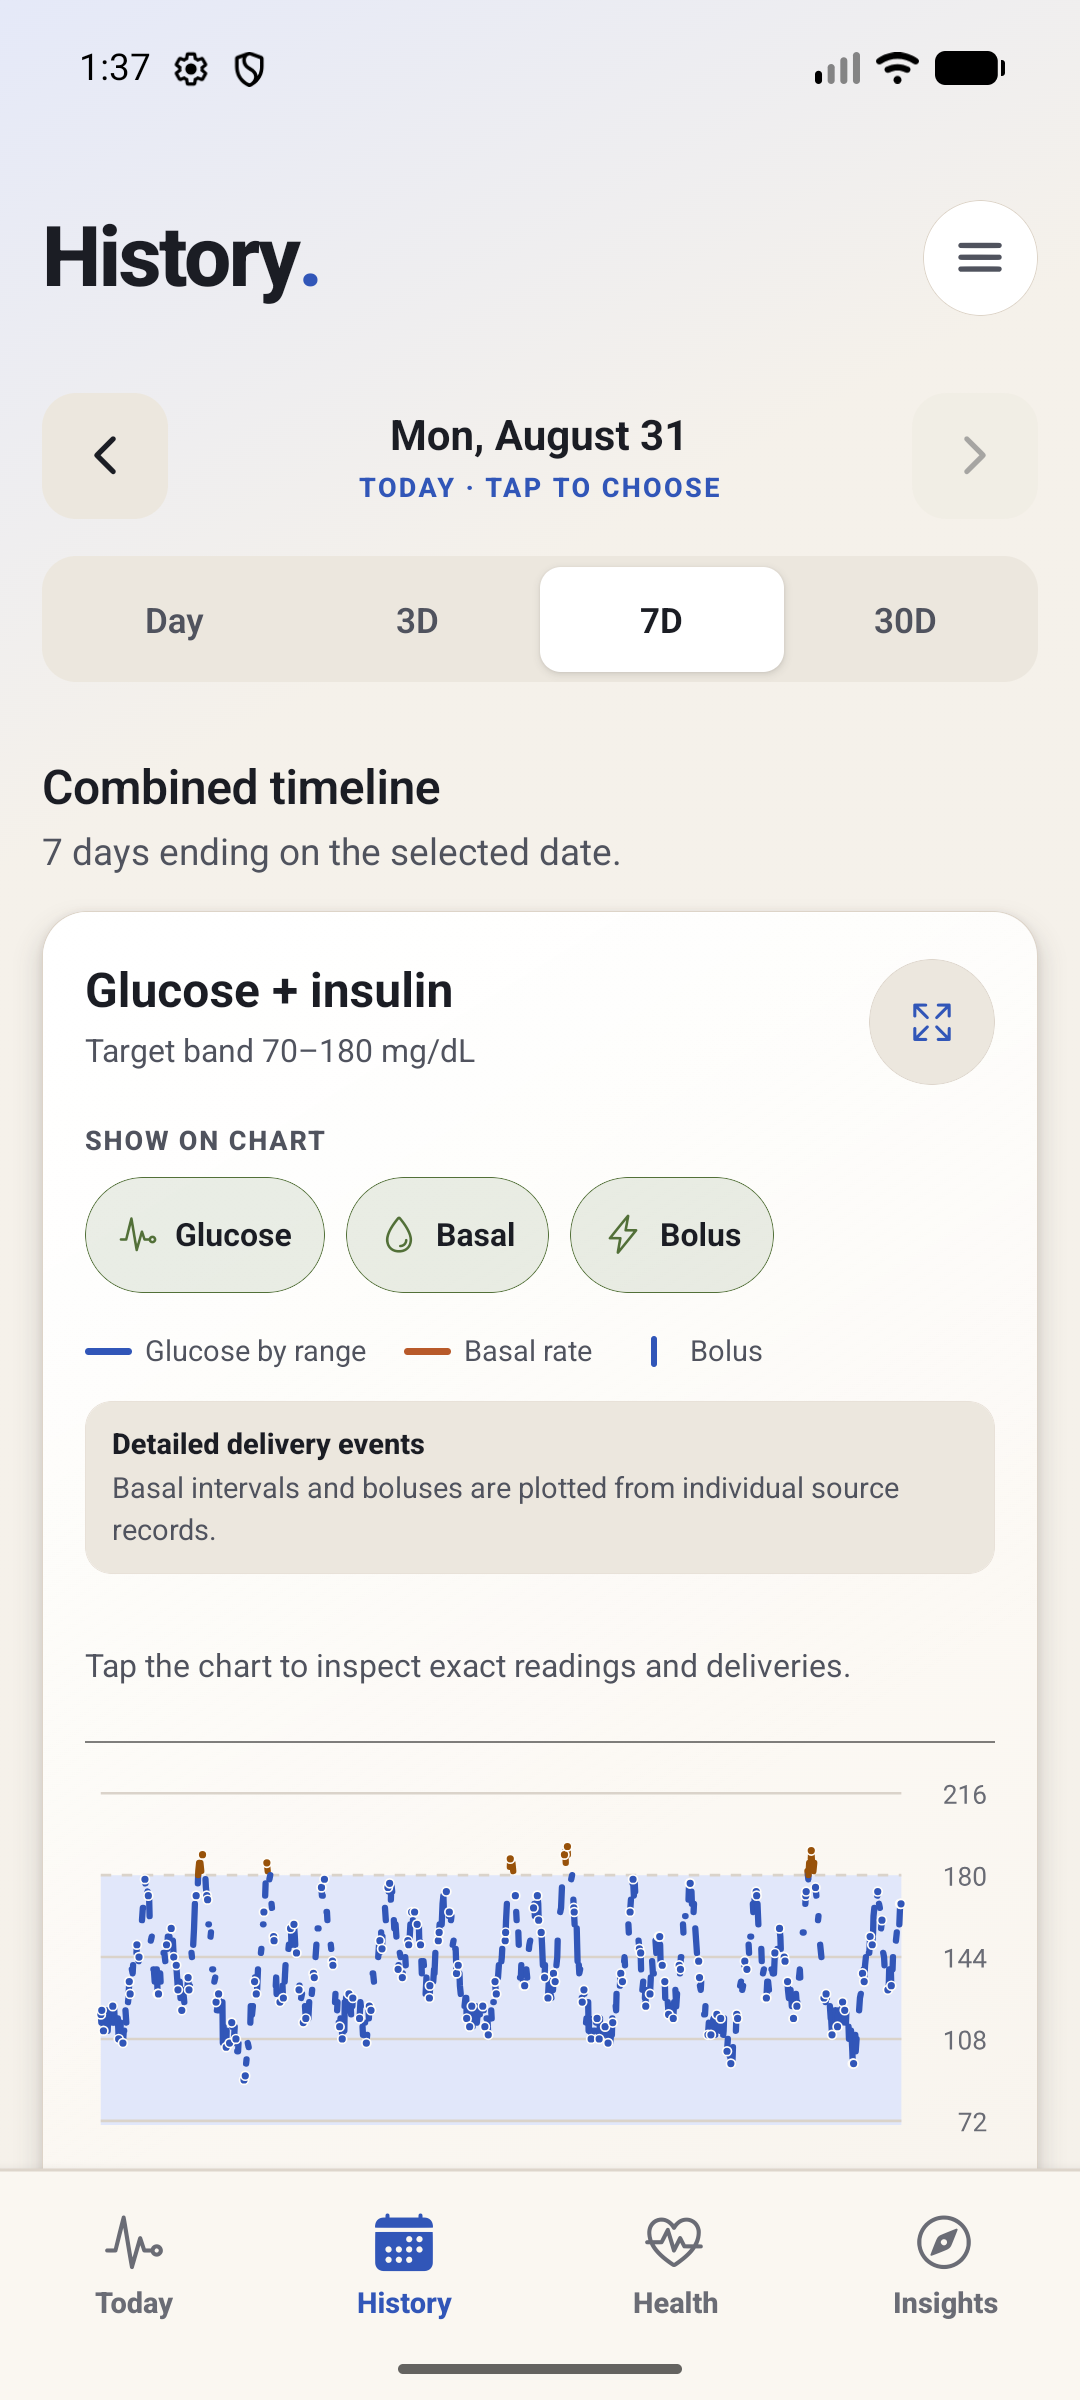
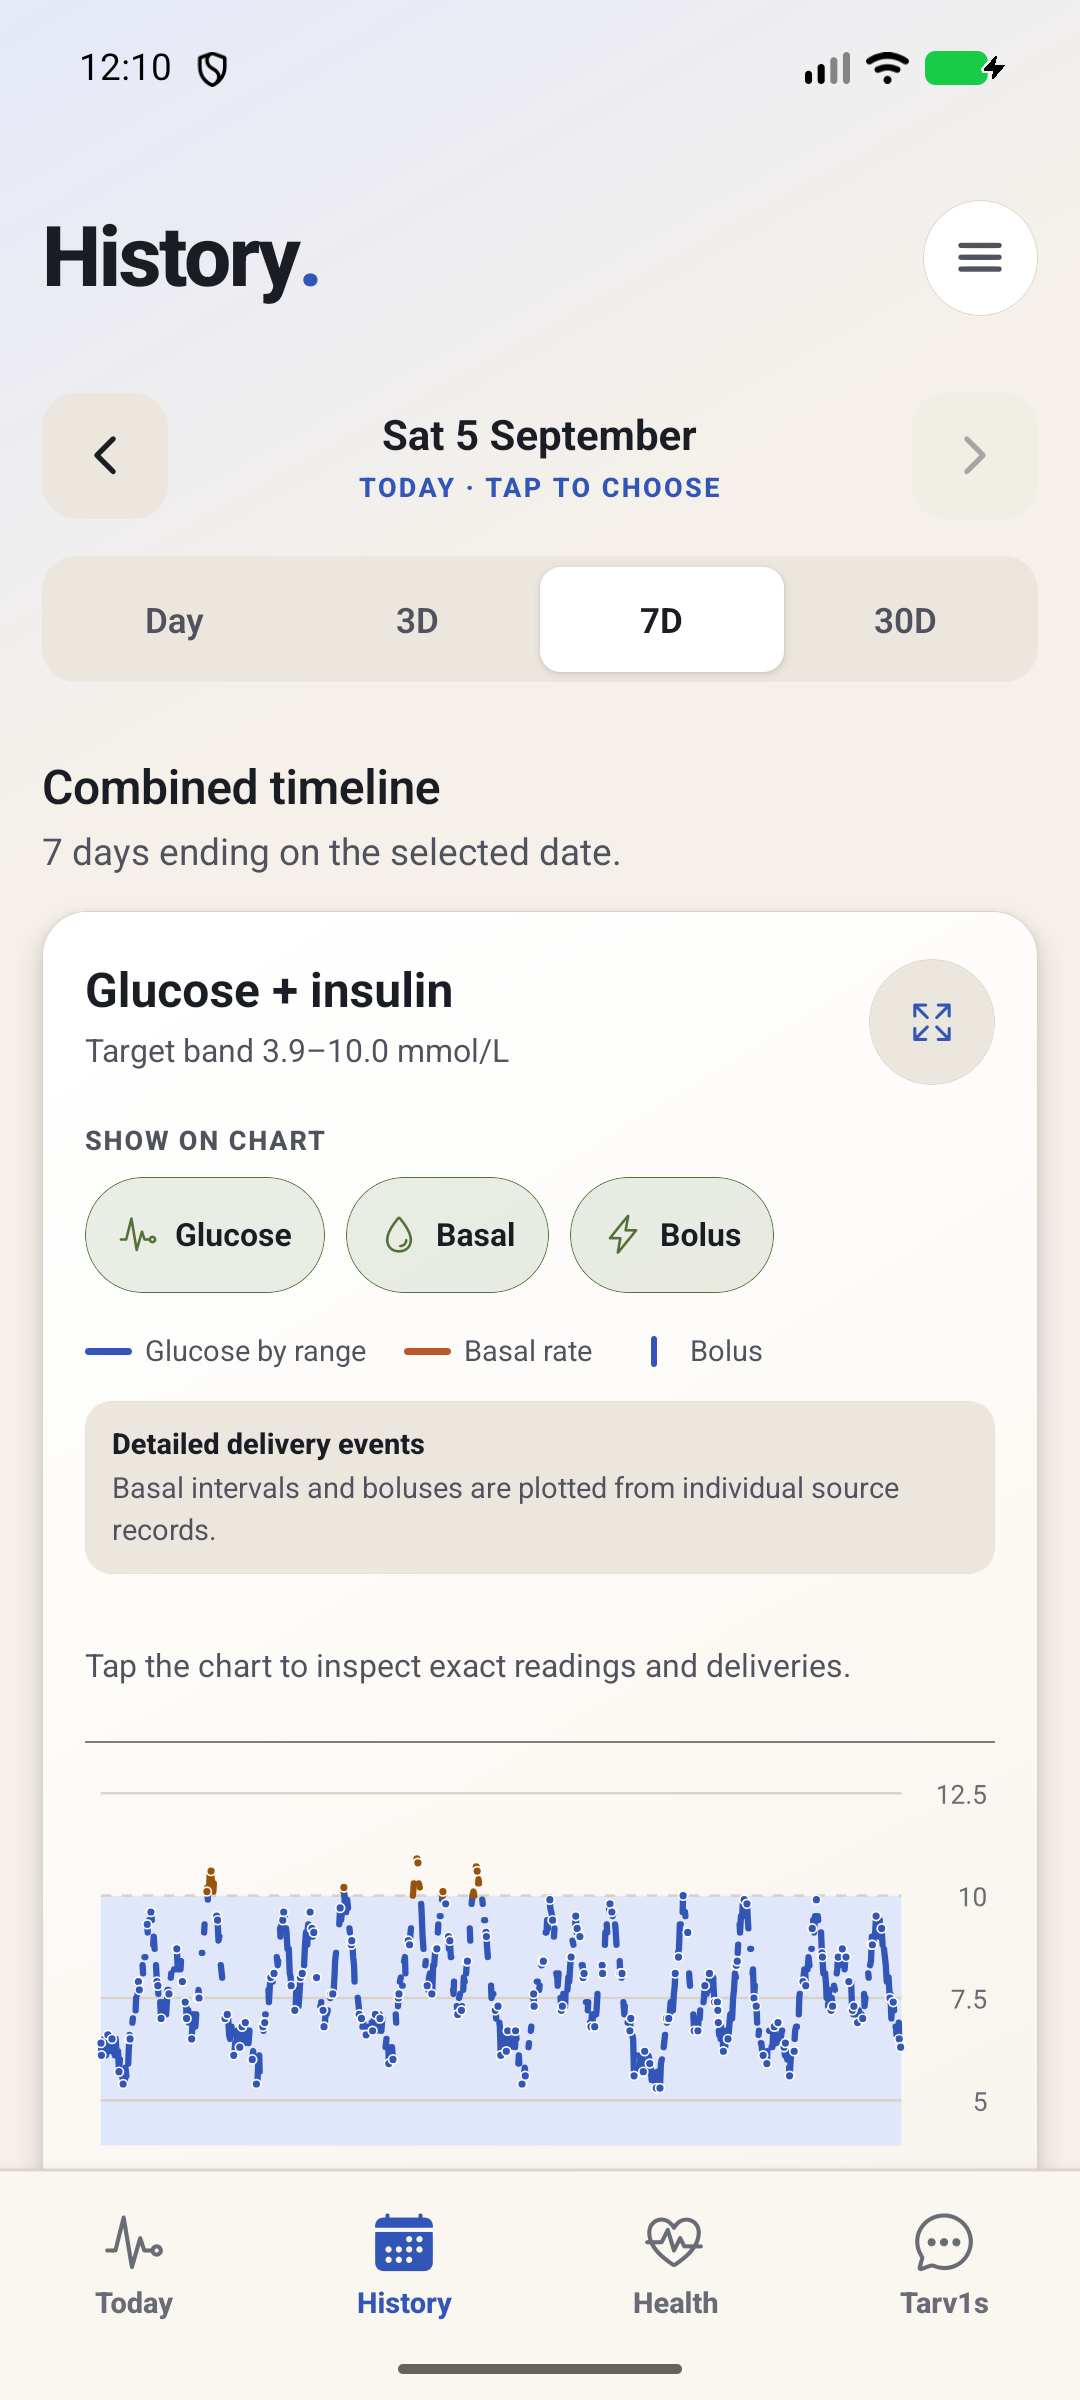
docs: refresh tested interface screenshots

diff --git a/docs/RELEASE_STATUS.md b/docs/RELEASE_STATUS.md
@@ -29,8 +29,10 @@ they are offered as public downloads.
 
 The source gates cover repository contents, secrets, dependency metadata,
 linting, types, automated tests, Expo configuration and native Android tasks.
-Selected phone interface paths have also been exercised on Android 17 and on a
-physical Pixel using synthetic or redacted test data.
+Representative phone interface paths have also been exercised in an Android 17
+emulator using synthetic or empty data. Physical-phone acceptance must use the
+exact draft release APK. Testing an earlier build does not establish that a new
+candidate works on that phone.
 
 That evidence does not prove every undocumented provider contract, Android
 manufacturer policy or account region. The
@@ -41,8 +43,6 @@ and fixture coverage from real-account evidence.
 
 - A large first Glooko export can spend several minutes processing locally with
   limited progress detail.
-- Selecting a food search result can leave the software keyboard visible on
-  some paths. The draft can still be reviewed and saved.
 - Android controls notification, background, lock-screen, Accessibility and
   Health Connect permissions. The exact settings screens vary by phone.
 - US Glooko automatic import is experimental until more real-account reports
@@ -67,6 +67,7 @@ Every release should state:
 
 - the app version and Android version range;
 - the exact APK filename and SHA-256 checksum;
+- the source commit and attached APK build record;
 - important changes and data migrations;
 - known limitations and any experimental provider routes;
 - the result of a clean install and an update over the previous public release.

diff --git a/docs/SCREENSHOTS.md b/docs/SCREENSHOTS.md
@@ -2,7 +2,7 @@
 
 Every image on this page was captured on Android 17 with temporary synthetic
 demo data or an empty app state. No personal health records or real provider
-accounts are shown.
+accounts are shown. The examples show both light and dark themes.
 
 ## First run
 
@@ -21,7 +21,9 @@ Today brings the current glucose reading, daily range, insulin, food and health
 context together. History lets you move between day, 3-day, 7-day and 30-day
 views and inspect the underlying records.
 
-## Insights and Tarv1s
+## Tarv1s and Insights
+
+Open Tarv1s from the bottom navigation. The switch at the top opens Insights.
 
 | Insights | Tarv1s |
 | --- | --- |
@@ -57,3 +59,12 @@ connections. Each cloud source can still use its own supported account region.
 The health screenshot deliberately shows the honest empty state. Imported
 records depend on Android Health Connect permissions and data available on the
 device.
+
+## Glucose colours
+
+![Saved green in-range colour with an mg/dL preview](screenshots/glucose-colours.png)
+
+In **Display and alerts**, open **Phone and lock screen**, then **Glucose ranges
+and colours**. Tap a range, choose a colour and press **Save**. The preview uses
+illustrative values within the selected boundaries, in the selected glucose
+unit. Colours are accompanied by range labels, not used on their own.
